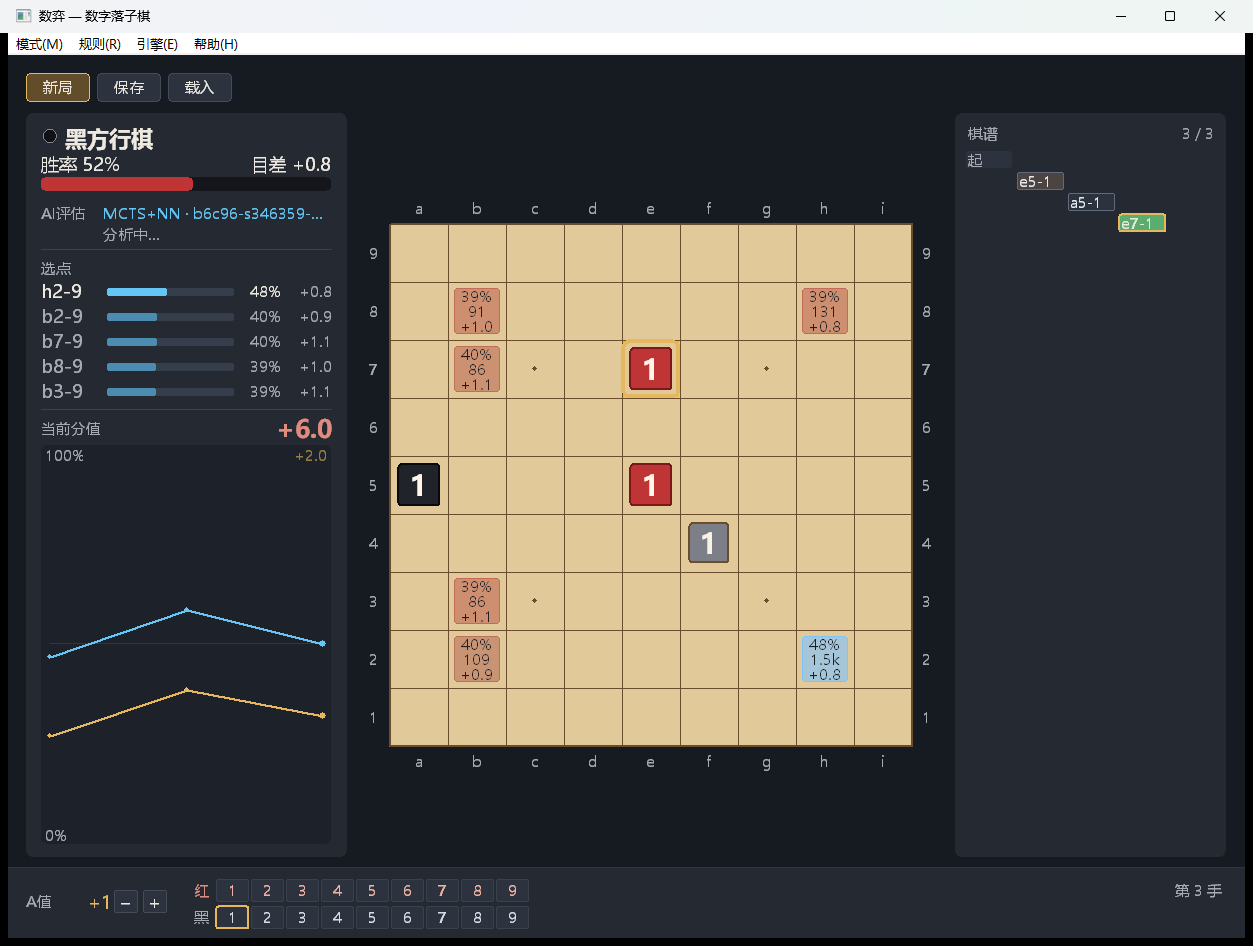
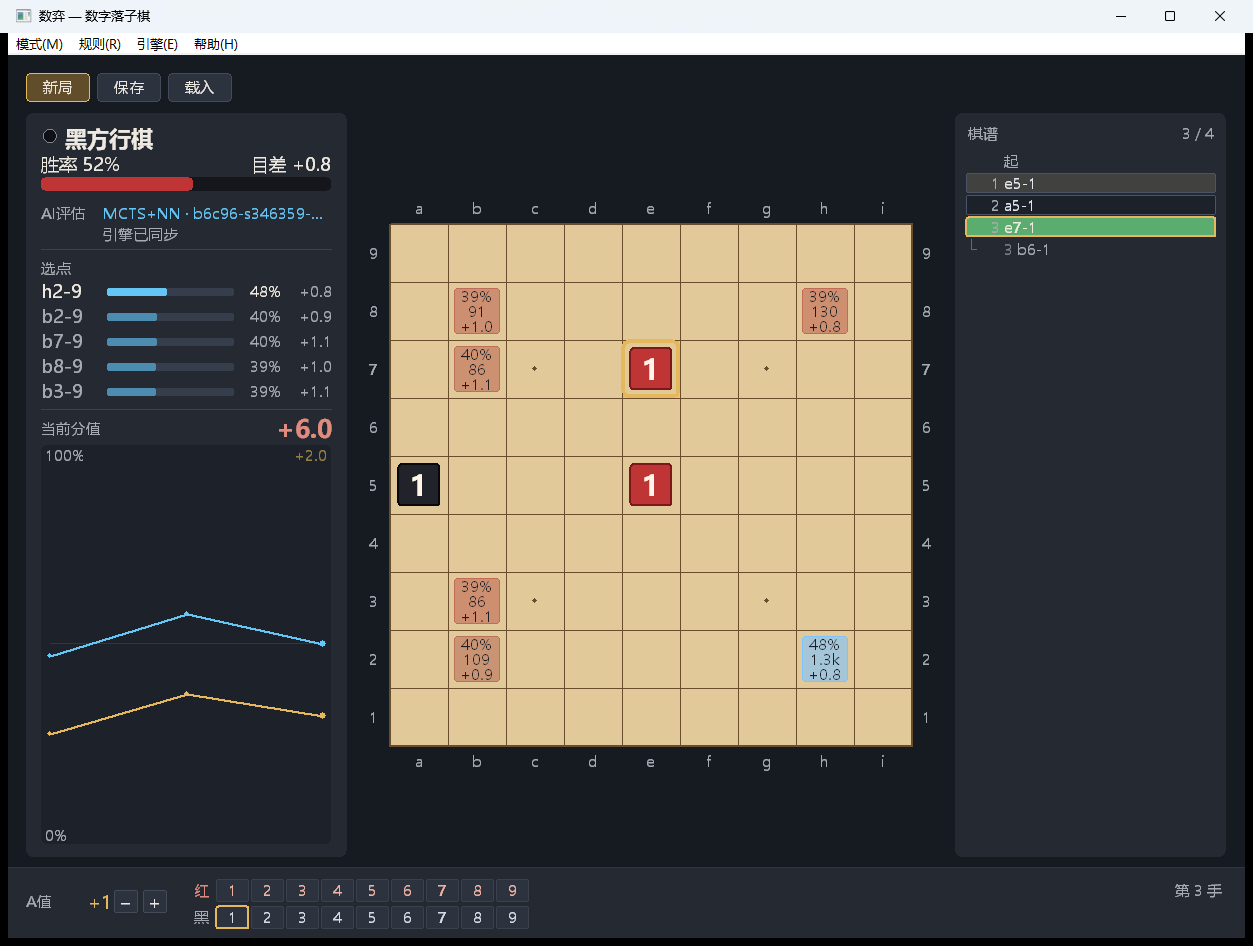
ui: lay the record out like a score sheet, not a column diagram
A 54-move game needs 54 columns if depth is the x axis, and the record
panel is 246 px wide.  The first version showed five moves and hid the
rest, which is worse than a list: it is a list that lies about how much
of the game it is showing.

Each move now gets a row, the trunk continues straight down, and an
alternative starts an indented block right after the move it replaces --
PGN's own order, which is the order a player reads a record in.  Rows
carry their ply number, the current move is boxed in gold, the trunk is
outlined, and a solved position gets a small gold dot.

The record also scrolls to the move it just loaded, instead of always
starting at the top of a long game, and the tree no longer restarts the
engine when the rule set did not change: a restart is the fragile path
(a capabilities probe racing the process it just killed), and replaying
the line is enough.

diff --git a/ui/src/ui_win32.cpp b/ui/src/ui_win32.cpp
@@ -1563,12 +1563,20 @@ bool contains(const RECT& rect, POINT point) {
            point.y < rect.bottom;
 }
 
-// The record tree's geometry, shared by the drawing and the hit test.  One row
-// per node in pre-order: the trunk runs down the left column and every variation
-// starts a new row below the branch it belongs to.
+// The record tree's geometry, shared by the drawing and the hit test.
+//
+// It is laid out like a score sheet, not like a wide diagram: one row per move,
+// the trunk continuing straight down and an alternative starting an indented
+// block right after the move it replaces.  A 54-move game has 54 columns if you
+// put the plies on the x axis, and this panel is 246 px wide -- a column tree
+// showed five moves and hid the rest.  Vertically there is room to scroll, and
+// the row order (move, its alternatives, then the next move of the trunk) is the
+// order a player reads a record in.
 struct TreeCell {
     int node = 0;
     RECT box{};
+    int level = 0;       // how deep the variation nesting is, for the indent
+    bool variation = false;
 };
 struct TreeLayout {
     std::vector<TreeCell> cells;
@@ -1578,22 +1586,38 @@ struct TreeLayout {
 
 TreeLayout computeTreeLayout(const Layout& layout, int scroll) {
     TreeLayout tree;
-    tree.rowHeight = scale(19);
-    const int columnWidth = scale(46);
+    tree.rowHeight = scale(20);
     const int left = layout.right.left + scale(10);
+    const int width = (layout.right.right - layout.right.left) - scale(20);
     const int top = layout.right.top + scale(34);
+    const int indent = scale(12);
     int row = 0;
-    const std::function<void(int, int)> walk = [&](int id, int depth) {
+    const auto emit = [&](int id, int level, bool variation) {
         TreeCell cell;
         cell.node = id;
-        const int x = left + depth * columnWidth;
+        cell.level = level;
+        cell.variation = variation;
+        const int x = left + level * indent;
         const int y = top + row * tree.rowHeight - scroll;
-        cell.box = {x, y, x + columnWidth - scale(4), y + tree.rowHeight - scale(3)};
+        cell.box = {x, y, x + width - level * indent, y + tree.rowHeight - scale(2)};
         tree.cells.push_back(cell);
         ++row;
-        for (int child : g_record.childrenOf(id)) walk(child, depth + 1);
     };
-    walk(g_record.root(), 0);
+    // PGN order: the move, then its alternatives indented right after it, then
+    // the move's own continuation.  That is exactly where a reader looks for
+    // "what else could he have played here", and the trunk stays contiguous.
+    std::function<void(int, int)> walkRest = [&](int id, int level) {
+        const auto& children = g_record.childrenOf(id);
+        if (children.empty()) return;
+        emit(children.front(), level, false);
+        for (std::size_t i = 1; i < children.size(); ++i) {
+            emit(children[i], level + 1, true);
+            walkRest(children[i], level + 1);
+        }
+        walkRest(children.front(), level);
+    };
+    emit(g_record.root(), 0, false);
+    walkRest(g_record.root(), 0);
     tree.contentHeight = row * tree.rowHeight;
     return tree;
 }
@@ -2056,32 +2080,48 @@ void drawRecordTree(HDC dc, const Layout& layout) {
     const std::vector<int> path = g_record.line(g_record.current());
     const auto onPath = [&](int id) { return std::find(path.begin(), path.end(), id) != path.end(); };
     for (const TreeCell& cell : tree.cells) {
+        if (cell.box.bottom < box.top + scale(30)) continue;
+        if (cell.box.top > box.bottom) break;
         const RecordNode& node = g_record.node(cell.node);
         // Colour: how the played move did against what the previous position's
         // analysis predicted, on the same red/green scale as the board marks.
-        COLORREF fill = kPanelSoft;
+        COLORREF fill = cell.node == g_record.root() ? kPanelSoft : kPanelDeep;
         double delta = 0.0;
         if (node.parent >= 0 && moveDelta(g_record.node(node.parent), node, &delta)) {
-            fill = mixColor(kPanel, markColor(delta, false), std::clamp(std::fabs(delta) / 0.2, 0.25, 0.9));
+            fill = mixColor(kPanel, markColor(delta, false),
+                            std::clamp(std::fabs(delta) / 0.2, 0.25, 0.9));
         }
         const bool selected = cell.node == g_record.current();
         const bool trunk = onPath(cell.node);
-        roundRect(dc, cell.box, scale(4), fill,
-                  selected ? kGold : (trunk ? RGB(96, 106, 124) : CLR_INVALID),
-                  selected ? 2 : 1);
-        std::wstring label = cell.node == g_record.root() ? std::wstring(L"起") : moveLabel(node.move);
-        drawTextAt(dc, label, cell.box.left + scale(2), cell.box.top, cell.box.right - cell.box.left - scale(4),
-                   cell.box.bottom - cell.box.top, g_fontSmall,
+        const int height = cell.box.bottom - cell.box.top;
+        if (cell.variation) {
+            // A variation is a note in the margin: a tick and a dimmer row.
+            line(dc, cell.box.left - scale(7), cell.box.top, cell.box.left - scale(7),
+                 cell.box.top + height / 2, RGB(96, 106, 124));
+            line(dc, cell.box.left - scale(7), cell.box.top + height / 2, cell.box.left - scale(2),
+                 cell.box.top + height / 2, RGB(96, 106, 124));
+        }
+        if (selected) {
+            roundRect(dc, cell.box, scale(4), fill, kGold, 2);
+        } else if (trunk) {
+            roundRect(dc, cell.box, scale(4), fill, RGB(74, 84, 102));
+        }
+        const int textLeft = cell.box.left + scale(6);
+        if (cell.node != g_record.root()) {
+            // The ply number, so a row tells you where in the game it is.
+            const std::wstring ply = std::to_wstring(g_record.depth(cell.node));
+            drawTextAt(dc, ply, textLeft, cell.box.top, scale(24), height, g_fontSmall,
+                       cell.variation ? RGB(120, 126, 138) : kMuted,
+                       DT_RIGHT | DT_VCENTER | DT_SINGLELINE);
+        }
+        const std::wstring label =
+            cell.node == g_record.root() ? std::wstring(L"起") : moveLabel(node.move);
+        drawTextAt(dc, label, textLeft + scale(28), cell.box.top, cell.box.right - textLeft - scale(30),
+                   height, g_fontSmall,
                    selected ? kText : (trunk ? RGB(226, 231, 240) : kMuted),
                    DT_LEFT | DT_VCENTER | DT_SINGLELINE);
         if (node.analysis.valid && node.analysis.proven) {
-            filledCircle(dc, cell.box.right - scale(4), cell.box.top + scale(4), scale(2), kGold);
-        }
-        if (node.children.size() > 1) {
-            // A branch point: the alternatives start below it.
-            line(dc, cell.box.right, cell.box.top + (cell.box.bottom - cell.box.top) / 2,
-                 cell.box.right + scale(3), cell.box.top + (cell.box.bottom - cell.box.top) / 2,
-                 RGB(96, 106, 124));
+            filledCircle(dc, cell.box.right - scale(8), cell.box.top + height / 2, scale(2), kGold);
         }
     }
     SelectClipRgn(dc, nullptr);
@@ -2440,6 +2480,7 @@ bool loadRecordFromFile() {
 }
 
 bool loadRecordFromText(const std::string& text) {
+    const Ruleset previousRuleset = g_ruleset;
     GameRecord loaded;
     Ruleset ruleset = g_ruleset;
     std::string error;
@@ -2456,14 +2497,14 @@ bool loadRecordFromText(const std::string& text) {
     syncRulesetChecks();
     saveSettings();
     if (g_engineChoice != EngineChoice::Off && g_engineReady) {
-        // The rule set may have changed with the record: the engine has to be
-        // restarted, not just replayed.
-        const EngineChoice keep = g_engineChoice;
-        stopEngineProcess();
-        g_engineChoice = keep;
-        startEngineProcess();
+        // The engine takes the rule set at start-up, so only a record with another
+        // rule set needs a restart; otherwise replaying the line is enough.  The
+        // restart is also the fragile path (a probe racing the process it just
+        // killed), so it is worth not taking it when nothing changed.
+        if (ruleset != previousRuleset) startEngineProcess();
+        else syncEnginePosition();
     }
-    g_treeScroll = 0;
+    g_treeScroll = std::max(0, treeScrollFor(g_record.current()));
     refresh(true);
     if (aiToMove()) maybeAiMove();
     return true;
